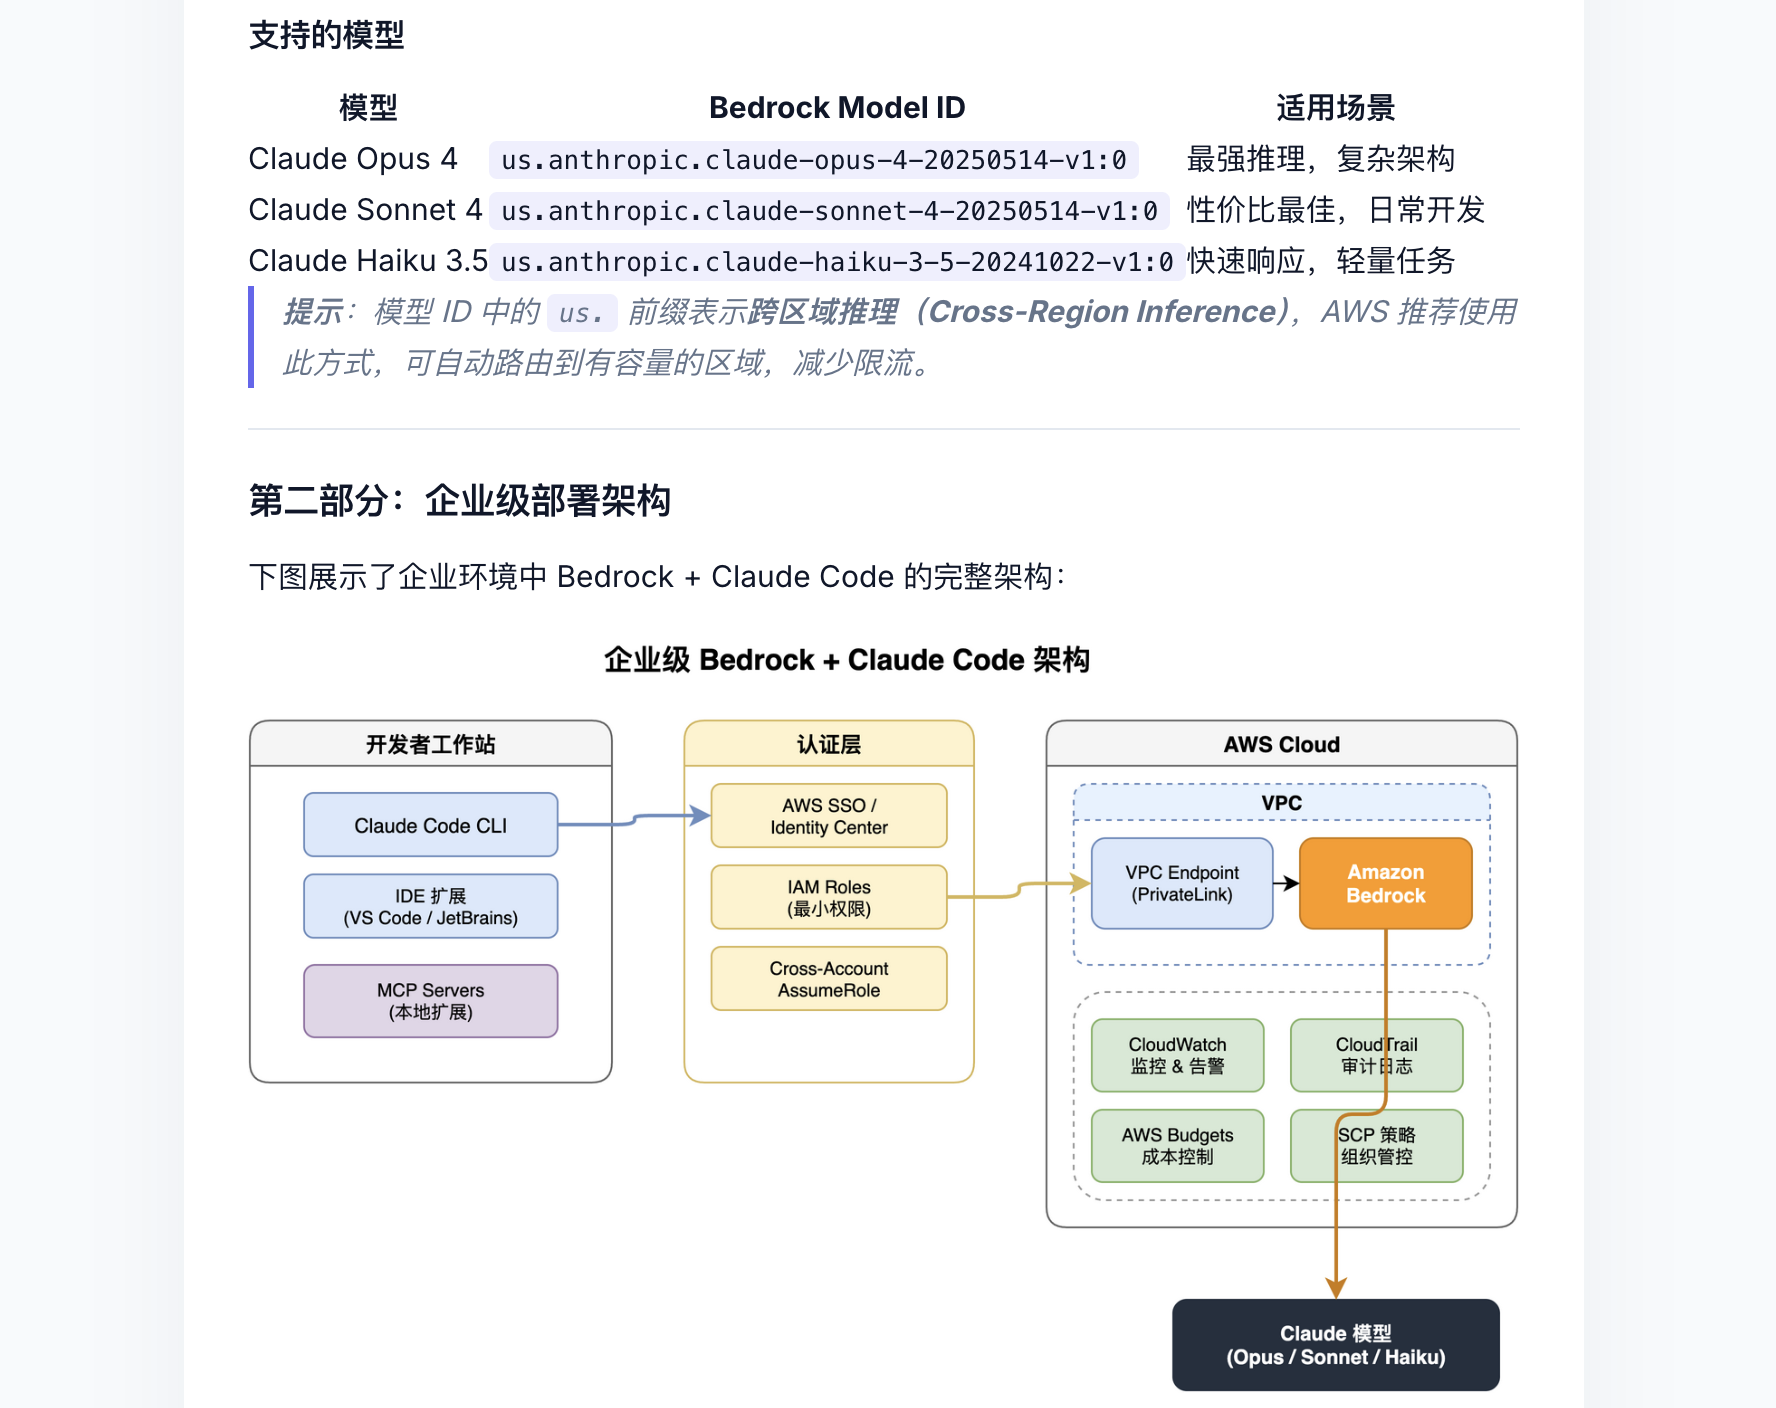
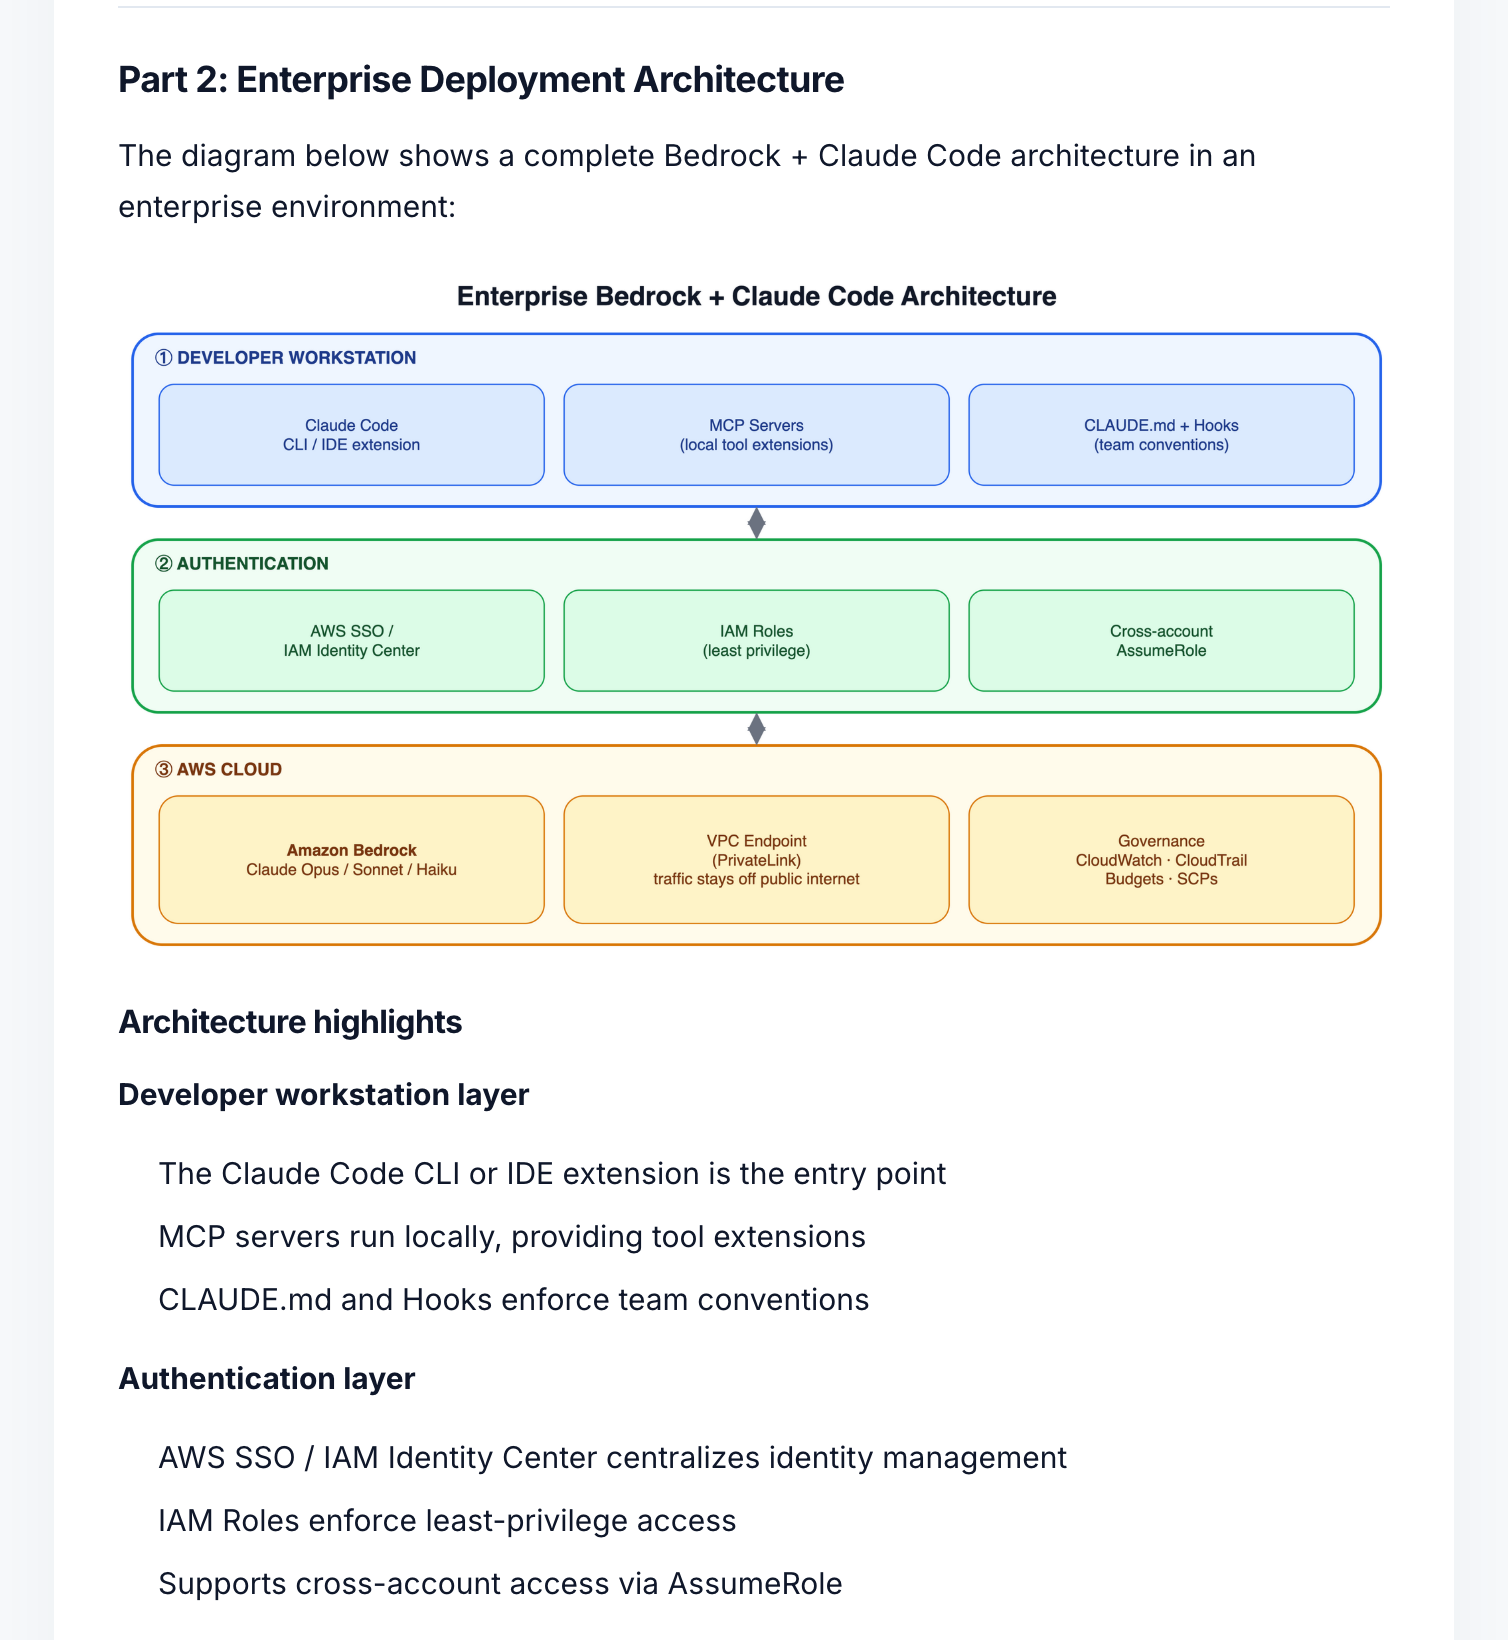
README: point examples to English articles + English screenshot
- Replace the 3 Chinese example links with newly published English
  FlowMind articles (sleep, muscle-building, Claude Code + Bedrock),
  each with freshly redrawn English diagrams.
- Swap the hero screenshot for one of the English Bedrock article
  (shared by both README.md and README.zh-CN.md).
- Ignore drafts/ (English drafts + diagram sources).

diff --git a/README.md b/README.md
@@ -13,9 +13,9 @@ A Claude Code MCP server that turns any topic into an illustrated knowledge base
 - **One-click publishing** — Publishes illustrated knowledge articles via the [FlowMind](https://flowmind.life) API, with support for public share links
 
 Articles generated by this tool are beautifully typeset, richly illustrated, and easy to understand.
-- [Example 1: Improving Sleep Quality](https://flowmind.life/share/note/ac09a518-ae04-49b8-a402-09a5ee77b7d0)
-- [Example 2: How a 40-Year-Old Man Can Build Muscle Scientifically](https://flowmind.life/share/note/e5fef824-6551-4e6d-b46d-816c163928bd)
-- [Example 3: Using Claude Code via AWS Bedrock](https://flowmind.life/share/note/beb348f8-3479-4601-9878-05f5b4496268)
+- [Example 1: Improving Sleep Quality](https://flowmind.life/share/note/0b84e61a-4ccb-4f35-a2af-7c4528eae902)
+- [Example 2: How Men Over 40 Can Build Muscle Scientifically](https://flowmind.life/share/note/e2d229f2-2b02-45ab-bc36-deb753f45209)
+- [Example 3: Using Claude Code with AWS Bedrock](https://flowmind.life/share/note/07f15671-5d85-4ef6-bd1c-bef3594bf0e7)
 
 ![Example KBB knowledge base article](docs/images/kbb-article-example.png)
 
